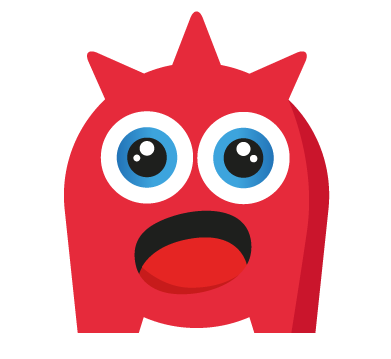
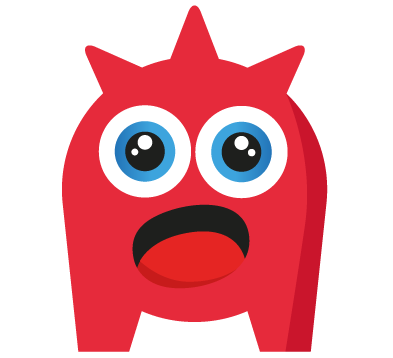
Fix: new images no background

diff --git a/client/src/assets/Avatars/avatars.js b/client/src/assets/Avatars/avatars.js
@@ -3,5 +3,6 @@ import two from "./2.png";
 import three from "./3.png";
 import four from "./4.png";
 import five from "./5.png";
+import six from "./6.png";
 
-export const avatars = [one, two, three, four, five];
+export const avatars = [one, two, three, four, five, six];
